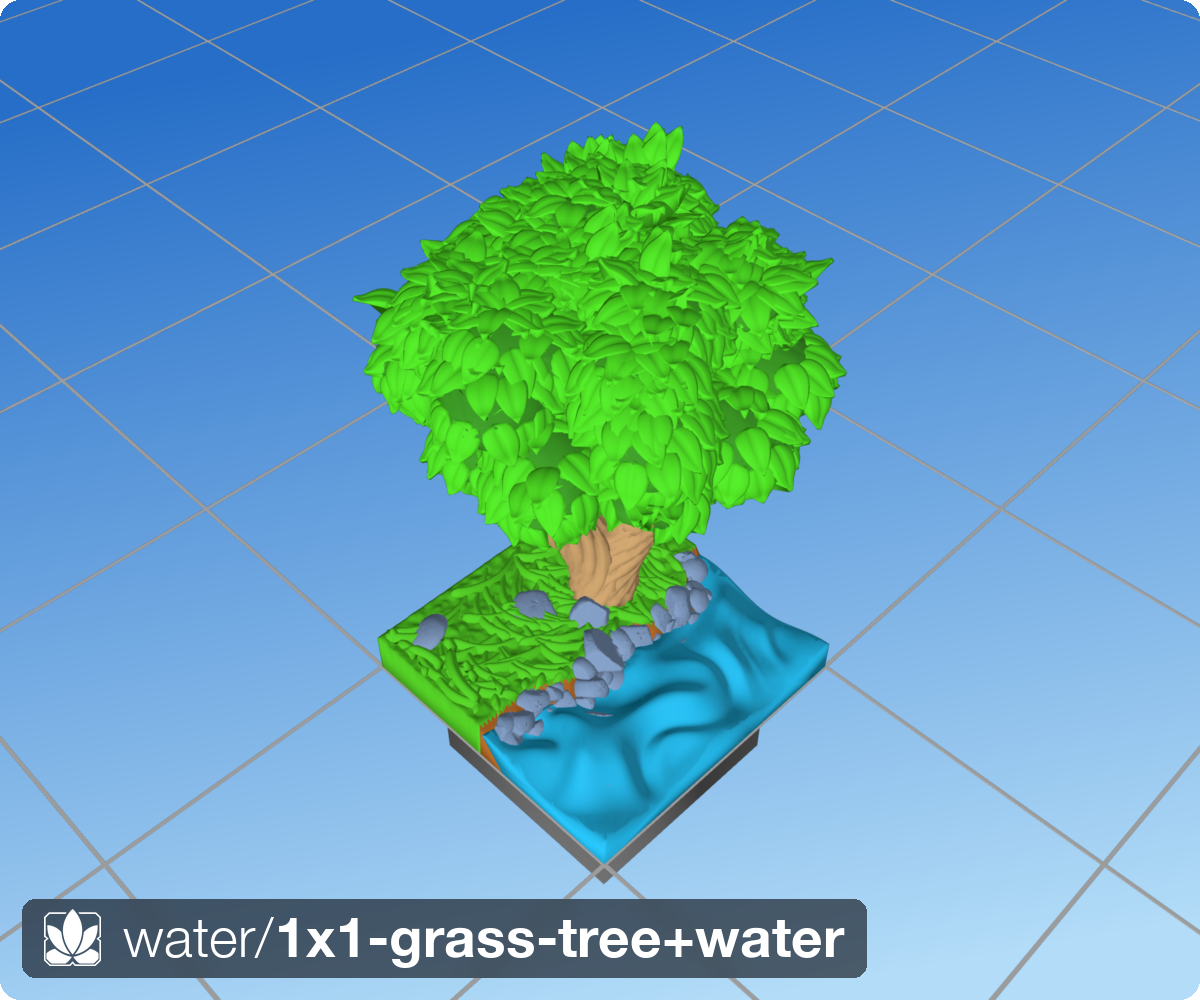
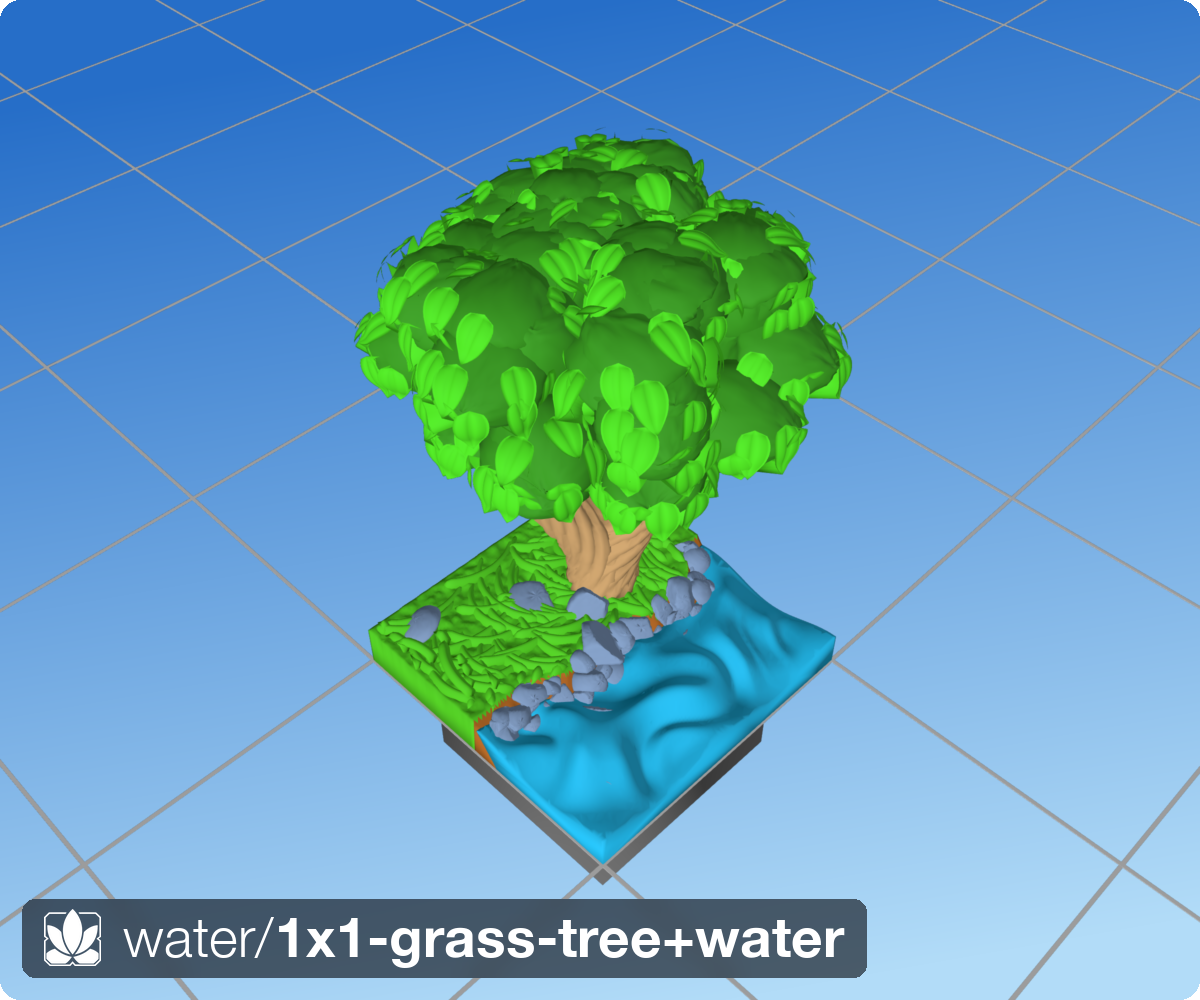
Fix greedy leaf seating: smooth normals + belly-normal contact lean
Two divergences from the meridian placer made greedy leaves stand off
("lift") at a wrong angle on the convex clumps:

1. Base normal used the icosphere FACE normals (faceted → per-triangle
   orientation jumps). Now barycentric-interpolated smooth vertex
   normals, matching meridian's up_hint.
2. Contact lean passed m=None to _contact_angle_analytic (base-normal
   plane model). The base normal ignores the surface curving away under
   the belly, so the analytic lean under-leans and the belly floats —
   exactly what meridian's _ANALYTIC_MEASURE_BELLY comment warns about
   ("leaves stand off more on curved regions"). Now measure the surface
   normal at the belly-dip point (one on_surface query per surviving
   candidate) and pass it as m, so the belly seats on the surface.

Also move angle jitter onto T0 before the lean (meridian order).

Effect (two-cluster): curl-outside median 1.3/2.1mm → 0.79/0.91mm,
floating leaves 21/16 → 5/4 — now tighter than the meridian baseline.
Tile: 342 → 371 leaves (fewer rejections from tighter seating), leaf
placement still ~6s. All correctness invariants still pass.

diff --git a/src/dharmatiles/trees/placement_greedy.py b/src/dharmatiles/trees/placement_greedy.py
@@ -275,7 +275,15 @@ def _generate_candidates(
     pts, fi = _sample_surface(mesh, n_cand, rng)
     if len(pts) == 0:
         return []
-    normals = mesh.face_normals[fi]
+    # Smooth (barycentric-interpolated vertex) normals — NOT face normals — so
+    # leaf base orientation varies smoothly across the coarse icosphere instead
+    # of jumping per triangle.  Matches the meridian placer's up_hint.
+    tris = mesh.triangles[fi]                                      # (n, 3, 3)
+    bary = trimesh.triangles.points_to_barycentric(tris, pts)     # (n, 3)
+    vn = mesh.vertex_normals[mesh.faces[fi]]                       # (n, 3, 3)
+    normals = np.einsum("nk,nkj->nj", bary, vn)                    # (n, 3)
+    _nl = np.linalg.norm(normals, axis=1, keepdims=True)
+    normals = np.divide(normals, _nl, out=np.zeros_like(normals), where=_nl > 1e-9)
     cx = float(mesh.vertices[:, 0].mean())
     cy = float(mesh.vertices[:, 1].mean())
     centroid = np.array([cx, cy, float(mesh.vertices[:, 2].mean())])
@@ -457,20 +465,28 @@ def place_leaves_greedy(
             n_rejected_thin += 1
             continue
 
-        # Analytic lean (closed form, base-normal plane model; pull-away absorbs
-        # residual curvature penetration — no proximity query here).
-        ca = _contact_angle_analytic(belly_dip[0], belly_dip[1], T0, normal)
-        tangent = _safe_norm(T0 * math.cos(ca) - normal * math.sin(ca))
-        up_placed = _safe_norm(normal * math.cos(ca) + T0 * math.sin(ca))
-
-        # Angle jitter: pivot the growth direction azimuthally about the normal.
+        # Angle jitter FIRST: pivot the growth direction T0 azimuthally about the
+        # normal, then solve the lean for the jittered direction (matches the
+        # meridian order — jitter T0, not the leaned tangent).
         lseed = int(_hash01_int(int(seeds_list[mi]), "greedy-leaf", cand.idx))
         if angle_jitter_deg != 0.0:
             theta = math.radians(angle_jitter_deg) * (
                 _hash01(int(seeds_list[mi]), "greedy-ang", cand.idx) * 2.0 - 1.0
             )
             ct, st = math.cos(theta), math.sin(theta)
-            tangent = _safe_norm(tangent * ct + np.cross(normal, tangent) * st)
+            T0 = _safe_norm(T0 * ct + np.cross(normal, T0) * st)
+
+        # Analytic lean, pressing the belly-dip against the LOCAL surface.  The
+        # plane normal m is measured at the belly-dip point (one on_surface
+        # query), matching the meridian placer's _ANALYTIC_MEASURE_BELLY=True.
+        # Using the base normal instead makes leaves stand off ("lift") on convex
+        # clumps because it ignores the surface curving away under the belly.
+        _bp = base + belly_dip[0] * T0 + belly_dip[1] * normal
+        _mc, _, _mt = proximities[mi].on_surface(_bp[np.newaxis])
+        _m = meshes[mi].face_normals[int(_mt[0])]
+        ca = _contact_angle_analytic(belly_dip[0], belly_dip[1], T0, normal, m=_m)
+        tangent = _safe_norm(T0 * math.cos(ca) - normal * math.sin(ca))
+        up_placed = _safe_norm(normal * math.cos(ca) + T0 * math.sin(ca))
 
         # C2: tip-half footprint vs the shared shingle occupancy → lowest free
         # standoff layer, or drop if the tip region is saturated to the cap.
